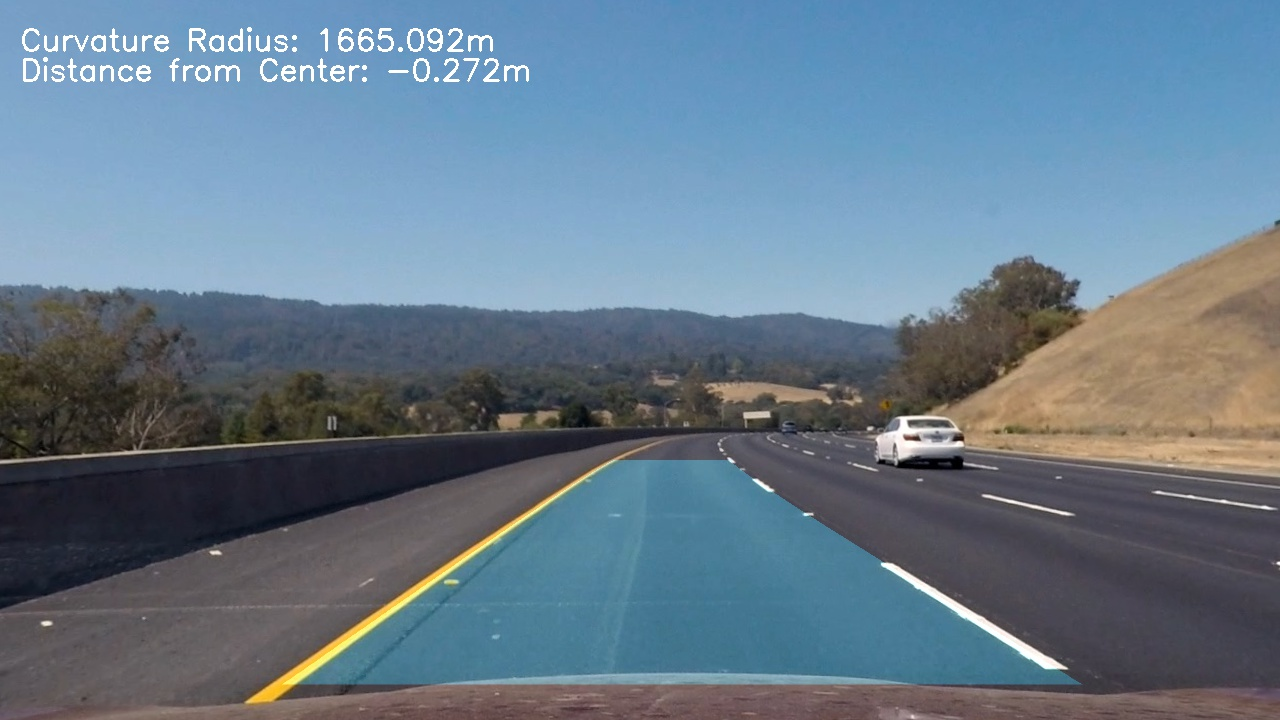
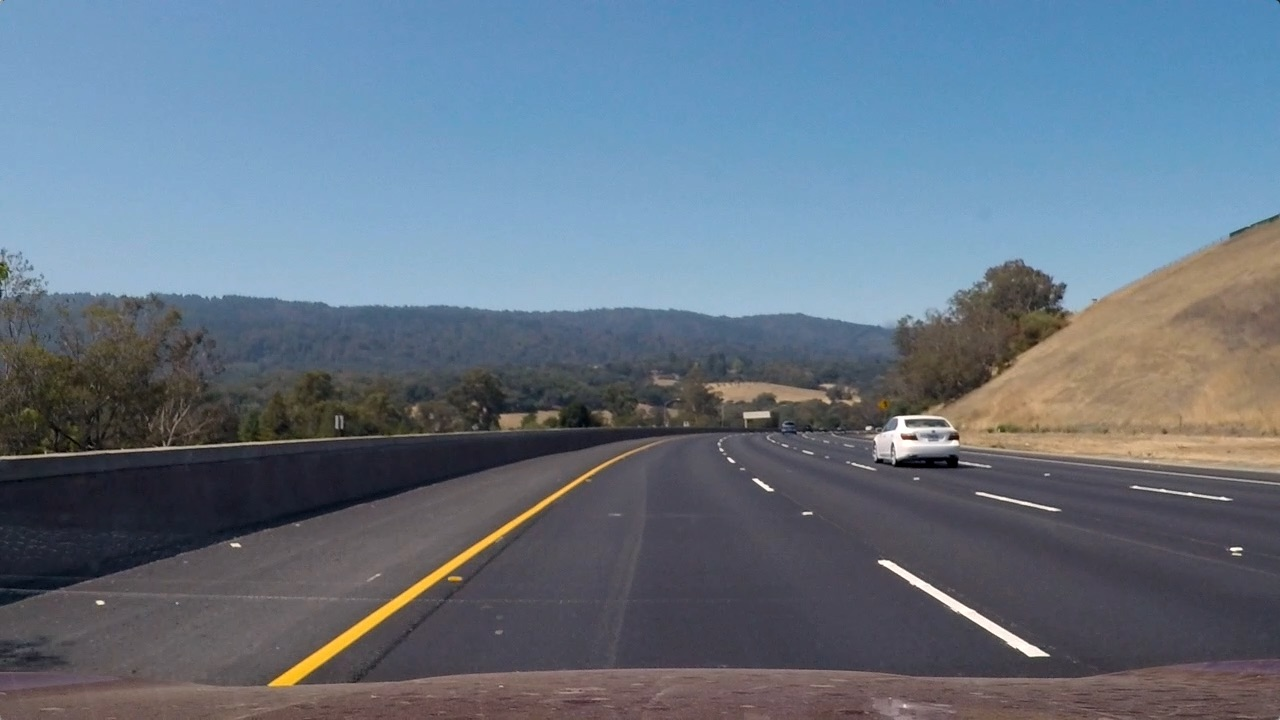
First draft of writeup

diff --git a/README.md b/README.md
@@ -14,18 +14,26 @@ The goals / steps of this project are the following:
 [//]: # (Image References)
 
 [image1]: ./output_images/undistort_cal.jpg "Undistorted"
-[image2]: ./output_images/undistort_road.jpg "Road Transformed"
-[image3]: ./output_images/mask.jpg "Binary Example"
-[image4]: ./output_images/birdseye.jpg "Warp Example"
-[image5]: ./output_images/find_fit.jpg "Fit Visual"
-[image6]: ./output_images/test3.jpg "Output"
+[image2]: ./output_images/test3.jpg "Road"
+[image3]: ./output_images/undistort_road.jpg "Road Transformed"
+[image4]: ./output_images/mask.jpg "Binary Example"
+[image5]: ./output_images/birdseye.jpg "Warp Example"
+[image6]: ./output_images/find_fit.jpg "Fit Visual"
+[image7]: ./output_images/test3_output.jpg "Output"
 [video1]: ./output_images/project_video.mp4 "Video"
 
-## [Rubric](https://review.udacity.com/#!/rubrics/571/view) Points
-###Here I will consider the rubric points individually and describe how I addressed each point in my implementation.  
+---
+## Project Organization
+
+To run the lane detection pipeline on an image (.jpg) or video (.mp4), call `runner.py -p <path/to/image/or/video>`. `runner.py` is a high-level script that handles command line input and outlines the major steps required for lane detection by calling relevant helper functions in `utils.py`. The real meat of the code resides in `utils.py`, and frequently-used constants are defined in `constants.py`. 
 
 ---
-###Writeup / README
+## [Rubric](https://review.udacity.com/#!/rubrics/571/view) Points
+
+Here I will consider the rubric points individually and describe how I addressed each point in my implementation. I will show examples of each stage applied to the given image `test3.jpg`. 
+
+---
+###Writeup
 
 ####1. Provide a Writeup / README that includes all the rubric points and how you addressed each one.  You can submit your writeup as markdown or pdf.  [Here](https://github.com/udacity/CarND-Advanced-Lane-Lines/blob/master/writeup_template.md) is a template writeup for this project you can use as a guide and a starting point.  
 
@@ -34,69 +42,88 @@ You're reading it!
 
 ####1. Briefly state how you computed the camera matrix and distortion coefficients. Provide an example of a distortion corrected calibration image.
 
-The code for this step is contained in the first code cell of the IPython notebook located in "./examples/example.ipynb" (or in lines # through # of the file called `some_file.py`).  
+The code for this step is contained in in lines 73 through 146 of `some_file.py`.  
 
-I start by preparing "object points", which will be the (x, y, z) coordinates of the chessboard corners in the world. Here I am assuming the chessboard is fixed on the (x, y) plane at z=0, such that the object points are the same for each calibration image.  Thus, `objp` is just a replicated array of coordinates, and `objpoints` will be appended with a copy of it every time I successfully detect all chessboard corners in a test image.  `imgpoints` will be appended with the (x, y) pixel position of each of the corners in the image plane with each successful chessboard detection.  
+I calibrate the camera using given distorted images of a chessboard and the `cv2.findChessboardCorners` function. I start by preparing "object points", which will be the (x, y, z) coordinates of the chessboard corners in the world. Here I am assuming the chessboard is fixed on the (x, y) plane at z=0, such that the object points are the same for each calibration image.  Thus, `obj_points_const` is just a replicated array of coordinates, and `obj_points` will be appended with a copy of it every time I successfully detect all chessboard corners in a test image.  `img_points` will be appended with the (x, y) pixel position of each of the corners in the image plane with each successful chessboard detection.  
 
-I then used the output `objpoints` and `imgpoints` to compute the camera calibration and distortion coefficients using the `cv2.calibrateCamera()` function.  I applied this distortion correction to the test image using the `cv2.undistort()` function and obtained this result: 
+I then used the output `obj_points` and `img_points` to compute the camera calibration and distortion coefficients using the `cv2.calibrateCamera()` function.  I applied this distortion correction to the test image using the `cv2.undistort()` function and obtained this result: 
 
 ![alt text][image1]
 
 ###Pipeline (single images)
 
 ####1. Provide an example of a distortion-corrected image.
-To demonstrate this step, I will describe how I apply the distortion correction to one of the test images like this one:
+
+To correct the distortion of road images, I use the function `undistort_imgs()` at line 132 of `utils.py`. This function uses `cv2.undistort()` with the camera matrix and distortion coefficients calculated during camera calibration to return undistorted versions of all input images.
+
+`test3.jpg` before correction:
+
 ![alt text][image2]
-####2. Describe how (and identify where in your code) you used color transforms, gradients or other methods to create a thresholded binary image.  Provide an example of a binary image result.
-I used a combination of color and gradient thresholds to generate a binary image (thresholding steps at lines # through # in `another_file.py`).  Here's an example of my output for this step.  (note: this is not actually from one of the test images)
+
+`test3.jpg` after correction:
 
 ![alt text][image3]
 
-####3. Describe how (and identify where in your code) you performed a perspective transform and provide an example of a transformed image.
+####2. Describe how (and identify where in your code) you used color transforms, gradients or other methods to create a thresholded binary image.  Provide an example of a binary image result.
+I use a combination of geometric masking and color and gradient thresholds to generate a binary image (thresholding steps at lines 149 through 323 in `utils.py`). 
 
-The code for my perspective transform includes a function called `warper()`, which appears in lines 1 through 8 in the file `example.py` (output_images/examples/example.py) (or, for example, in the 3rd code cell of the IPython notebook).  The `warper()` function takes as inputs an image (`img`), as well as source (`src`) and destination (`dst`) points.  I chose the hardcode the source and destination points in the following manner:
+As a geometric mask, I use the functions `quad_mask()` and `tri_anti_mask()` at lines 177 and 206, respectively, in `utils.py`. `quad_mask()` keeps everything within a trapezoidal region where lane lines are likely to exist. This helps to remove lines caused by cars in other lanes and scenery. `tri_anti_mask()` removes everything within a small triangle near the bottom center of the image. This helps to remove lines caused by shadows and cracks in the middle of the lane.
 
-```
-src = np.float32(
-    [[(img_size[0] / 2) - 55, img_size[1] / 2 + 100],
-    [((img_size[0] / 6) - 10), img_size[1]],
-    [(img_size[0] * 5 / 6) + 60, img_size[1]],
-    [(img_size[0] / 2 + 55), img_size[1] / 2 + 100]])
-dst = np.float32(
-    [[(img_size[0] / 4), 0],
-    [(img_size[0] / 4), img_size[1]],
-    [(img_size[0] * 3 / 4), img_size[1]],
-    [(img_size[0] * 3 / 4), 0]])
+To create a color-based mask, I used the function `color_mask()` at line 233 in `utils.py`. `color_mask()` uses the hue and saturation channels of the image, as well as a grayscale image, as these were the color channels that had the clearest distinction of lane line vs. road, even in varying light conditions. Values between (100, 255), (15, 70) and (190, 255) are kept for each of the respective channels, and the final color mask is a combination of any pixel within any of the thresholds.
 
-```
-This resulted in the following source and destination points:
+To create a gradient mask, I use the function `grad_mask()` at line 281 in `utils.py`. I calculate the Sobel gradient in the x direction on saturation and grascale channels. I use a Sobel kernel size of 7 to smooth the results.  Values between (30, 255) and (50, 255) are kept for each of the respective channels, and, like the color mask, all pixels in either channel mask are combined into the final gradient mask.
 
-| Source        | Destination   | 
-|:-------------:|:-------------:| 
-| 585, 460      | 320, 0        | 
-| 203, 720      | 320, 720      |
-| 1127, 720     | 960, 720      |
-| 695, 460      | 960, 0        |
+The final mask applied to the image is a logical and of the geometric, color and gradient masks – keeping only the pixels that exist in all three. This occurs in `get_masks` at line 308 of `utils.py`.
 
-I verified that my perspective transform was working as expected by drawing the `src` and `dst` points onto a test image and its warped counterpart to verify that the lines appear parallel in the warped image.
+Here's an example of my output for this step:
 
 ![alt text][image4]
 
-####4. Describe how (and identify where in your code) you identified lane-line pixels and fit their positions with a polynomial?
+####3. Describe how (and identify where in your code) you performed a perspective transform and provide an example of a transformed image.
 
-Then I did some other stuff and fit my lane lines with a 2nd order polynomial kinda like this:
+The code for my perspective transform includes a function called `birdseye()`, which appears in lines 326 through 351 in `utils.py`.  `birdseye()` takes images as inputs and uses a source and destination mapping (`SRC` and `DST` from `constants.py`) to map from the original perspective to a birdseye view of the image. I calculated `SRC` by picking points from one of the provided images with straight lane lines (`straight_lines1.jpg`) and mapped this to a rectangular `DST`. 
+
+This resulted in the following source and destination points:
+
+`
+| SRC       | DST       | 
+|:---------:|:---------:| 
+| 257,  685 | 200,  720 | 
+| 1050, 685 | 1080, 720 |
+| 583,  460 | 200,  0   |
+| 702,  460 | 1080, 0   |
+`
+
+I verified that my perspective transform was working as expected by verifying that the lane lines appear parallel in the warped images:
 
 ![alt text][image5]
 
+####4. Describe how (and identify where in your code) you identified lane-line pixels and fit their positions with a polynomial?
+
+To identify lane line pixels in the perspective transformed mask, I initially use `hist_search()` at line 434 of `utils.py`. `hist_search()` uses a sliding window histogram of the pixel values to select pixels around the two peaks (one for each line). For videos, I also use `local_search()`, which selects pixels around the previously-found lines. This helps keep the lines more stable when there is more noise in the masks. I use the following priority to decide which method to use:
+ 
+1. First, try get the lines from a local search based on past lines found. If those lines are good, use them.
+2. If good lines were found in the last 5 frames, use the most recent good lines found.
+3. Do a naive histogram search. If those lines are good, use them.
+4. Otherwise, use the last good fit found, regardless of time.
+
+When a good fit cannot be found using either local or histogram search, and the algorithm must fall back on a previous fit, I display red text on the frame. This helps measure where the search algorithms fail.
+
+After selecting the pixels, I fit a second-order polynomial to each line using `np.polyfit()` in my `fit_line()` function at line 377 of `utils.py`. I check if the detected lines are valid by making sure each horizontal pair of points on the left and right lines are within a certain range of pixels apars. This serves the dual purpose of checking if the lanes are a reasonable distance apart and if they are (roughly) parallel.
+
+The following image shows the selected pixels and fitted polynomials for each line:
+
+![alt text][image6]
+
 ####5. Describe how (and identify where in your code) you calculated the radius of curvature of the lane and the position of the vehicle with respect to center.
 
-I did this in lines # through # in my code in `my_other_file.py`
+I calculate the radius of curvature in `get_curvature_radius()` at line 396 of `utils.py` by averaging the curvature of the left and right lane lines. I calculate the position of the vehicle with respect to the center of the lane in `draw_lane()` at lines 670 to 679 in `utils.py`. I calculate this by measuring the distance from the center of the frame to the bottom of the left and right lines and taking the difference of those. In my code, negative distance represents that the car is to the left of center, while positive distance represents to the right. 
 
 ####6. Provide an example image of your result plotted back down onto the road such that the lane area is identified clearly.
 
-I implemented this step in lines # through # in my code in `yet_another_file.py` in the function `map_lane()`.  Here is an example of my result on a test image:
+I implemented this step in `draw_lane()` at line 620 in `utils.py`.  Here is an example of my result on a test image:
 
-![alt text][image6]
+![alt text][image7]
 
 ---
 
@@ -104,7 +131,7 @@ I implemented this step in lines # through # in my code in `yet_another_file.py`
 
 ####1. Provide a link to your final video output.  Your pipeline should perform reasonably well on the entire project video (wobbly lines are ok but no catastrophic failures that would cause the car to drive off the road!).
 
-Here's a [link to my video result](./project_video.mp4)
+![alt text][video1]
 
 ---
 
@@ -112,5 +139,4 @@ Here's a [link to my video result](./project_video.mp4)
 
 ####1. Briefly discuss any problems / issues you faced in your implementation of this project.  Where will your pipeline likely fail?  What could you do to make it more robust?
 
-Here I'll talk about the approach I took, what techniques I used, what worked and why, where the pipeline might fail and how I might improve it if I were going to pursue this project further.  
-
+My current pipeline does not work on the provided challenge video because some frames fail to find any pixels for one of the lane lines, and I am not sure what the best way to handle that case is. Having feeds from multiple cameras at different angles might help make lane lines always visible; Otherwise, we could assume thet the line is off the side of the frame and take everything to that edge as the lane, using only the line in view for curvature.
